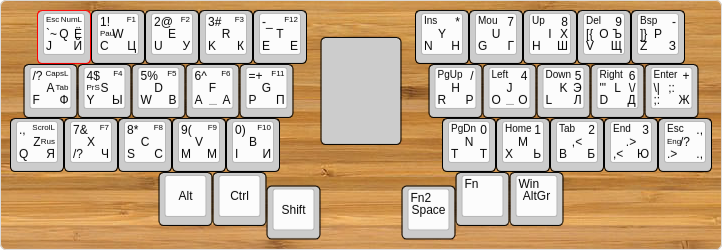
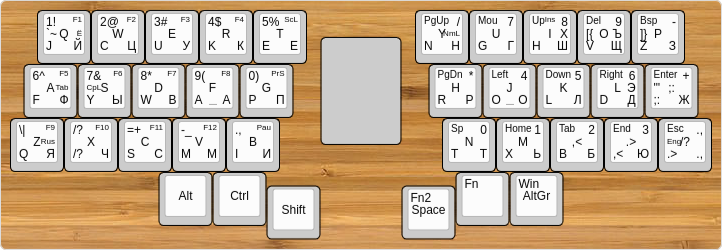
numbers

diff --git a/firmware/jcuken2.h b/firmware/jcuken2.h
@@ -76,8 +76,8 @@ const uint8_t Layers[4][6][9] PROGMEM = {
      {
          0,                                    // HJ
          0,                                    // JK
-         HID_KEYBOARD_SC_APOSTROPHE_AND_QUOTE, // KL
-         HID_KEYBOARD_SC_BACKSLASH_AND_PIPE,   // L;
+         0, // KL
+         HID_KEYBOARD_SC_APOSTROPHE_AND_QUOTE,   // L;
          HID_KEYBOARD_SC_H,                    // H
          HID_KEYBOARD_SC_J,                    // J
          HID_KEYBOARD_SC_K,                    // K
@@ -143,8 +143,8 @@ const uint8_t Layers[4][6][9] PROGMEM = {
      {
          0,                                    // RO
          0,                                    // OL
-         HID_KEYBOARD_SC_APOSTROPHE_AND_QUOTE, // LD
-         HID_KEYBOARD_SC_BACKSLASH_AND_PIPE,   // D;
+         0, // LD
+         HID_KEYBOARD_SC_APOSTROPHE_AND_QUOTE,   // D;
          HID_KEYBOARD_SC_R,                    // R
          HID_KEYBOARD_SC_O,                    // O
          HID_KEYBOARD_SC_L,                    // L
@@ -168,40 +168,40 @@ const uint8_t Layers[4][6][9] PROGMEM = {
          0,                                    // WE
          0,                                    // ER
          0,                                    // RT
-         HID_KEYBOARD_SC_ESCAPE,               // Q
-         HID_KEYBOARD_SC_1_AND_EXCLAMATION,    // W
-         HID_KEYBOARD_SC_2_AND_AT,             // E
-         HID_KEYBOARD_SC_3_AND_HASHMARK,       // R
-         HID_KEYBOARD_SC_MINUS_AND_UNDERSCORE, // T
+         HID_KEYBOARD_SC_1_AND_EXCLAMATION,               // Q
+         HID_KEYBOARD_SC_2_AND_AT,    // W
+         HID_KEYBOARD_SC_3_AND_HASHMARK,             // E
+         HID_KEYBOARD_SC_4_AND_DOLLAR,       // R
+         HID_KEYBOARD_SC_5_AND_PERCENTAGE, // T
      },
      {
          0,                                       // AS
          0,                                       // SD
          0,                                       // DF
          0,                                       // FG
-         HID_KEYBOARD_SC_SLASH_AND_QUESTION_MARK, // A
-         HID_KEYBOARD_SC_4_AND_DOLLAR,            // S
-         HID_KEYBOARD_SC_5_AND_PERCENTAGE,        // D
-         HID_KEYBOARD_SC_6_AND_CARET,             // F
-         HID_KEYBOARD_SC_EQUAL_AND_PLUS,          // G
+         HID_KEYBOARD_SC_6_AND_CARET, // A
+         HID_KEYBOARD_SC_7_AND_AND_AMPERSAND,            // S
+         HID_KEYBOARD_SC_8_AND_ASTERISK,        // D
+         HID_KEYBOARD_SC_9_AND_OPENING_PARENTHESIS,             // F
+         HID_KEYBOARD_SC_0_AND_CLOSING_PARENTHESIS,          // G
      },
      {
          0,                                         // ZX
          0,                                         // XC
          0,                                         // CV
          0,                                         // VB
-         HID_KEYBOARD_SC_DOT_AND_GREATER_THAN_SIGN, // Z
-         HID_KEYBOARD_SC_7_AND_AND_AMPERSAND,       // X
-         HID_KEYBOARD_SC_8_AND_ASTERISK,            // C
-         HID_KEYBOARD_SC_9_AND_OPENING_PARENTHESIS, // V
-         HID_KEYBOARD_SC_0_AND_CLOSING_PARENTHESIS, // B
+         HID_KEYBOARD_SC_BACKSLASH_AND_PIPE, // Z
+         HID_KEYBOARD_SC_SLASH_AND_QUESTION_MARK,       // X
+         HID_KEYBOARD_SC_EQUAL_AND_PLUS,            // C
+         HID_KEYBOARD_SC_MINUS_AND_UNDERSCORE, // V
+         HID_KEYBOARD_SC_DOT_AND_GREATER_THAN_SIGN, // B
      },
      {
          0,                         // YU
          0,                         // UI
-         0,                         // IO
+         HID_KEYBOARD_SC_INSERT,                         // IO
          0,                         // OP
-         HID_KEYBOARD_SC_INSERT,    // Y
+         HID_KEYBOARD_SC_PAGE_UP,    // Y
          HID_KEYBOARD_LAYER_MOU,    // U
          HID_KEYBOARD_SC_UP_ARROW,  // I
          HID_KEYBOARD_SC_DELETE,    // O
@@ -212,7 +212,7 @@ const uint8_t Layers[4][6][9] PROGMEM = {
          0,                           // JK
          0,                           // KL
          0,                           // L;
-         HID_KEYBOARD_SC_PAGE_UP,     // H
+         HID_KEYBOARD_SC_PAGE_DOWN,     // H
          HID_KEYBOARD_SC_LEFT_ARROW,  // J
          HID_KEYBOARD_SC_DOWN_ARROW,  // K
          HID_KEYBOARD_SC_RIGHT_ARROW, // L
@@ -223,7 +223,7 @@ const uint8_t Layers[4][6][9] PROGMEM = {
          0,                         // M,
          0,                         // ,.
          0,                         // ./
-         HID_KEYBOARD_SC_PAGE_DOWN, // N
+         HID_KEYBOARD_SC_SPACE, // N
          HID_KEYBOARD_SC_HOME,      // M
          HID_KEYBOARD_SC_TAB,       // ,<
          HID_KEYBOARD_SC_END,       // .>
@@ -231,44 +231,44 @@ const uint8_t Layers[4][6][9] PROGMEM = {
      }},
     {// Function and Number block
      {
-         HID_KEYBOARD_SC_PAUSE,    // QW
+         0,    // QW
          0,                        // WE
          0,                        // ER
          0,                        // RT
-         HID_KEYBOARD_SC_NUM_LOCK, // Q
-         HID_KEYBOARD_SC_F1,       // W
-         HID_KEYBOARD_SC_F2,       // E
-         HID_KEYBOARD_SC_F3,       // R
-         HID_KEYBOARD_SC_F12,      // T
+         HID_KEYBOARD_SC_F1, // Q
+         HID_KEYBOARD_SC_F2,       // W
+         HID_KEYBOARD_SC_F3,       // E
+         HID_KEYBOARD_SC_F4,       // R
+         HID_KEYBOARD_SC_PRINT_SCREEN,      // T
      },
      {
-         HID_KEYBOARD_SC_PRINT_SCREEN, // AS
+         HID_KEYBOARD_SC_CAPS_LOCK, // AS
          0,                            // SD
          0,                            // DF
          0,                            // FG
-         HID_KEYBOARD_SC_CAPS_LOCK,    // A
-         HID_KEYBOARD_SC_F4,           // S
-         HID_KEYBOARD_SC_F5,           // D
-         HID_KEYBOARD_SC_F6,           // F
-         HID_KEYBOARD_SC_F11,          // G
+         HID_KEYBOARD_SC_F5,    // A
+         HID_KEYBOARD_SC_F6,           // S
+         HID_KEYBOARD_SC_F7,           // D
+         HID_KEYBOARD_SC_F8,           // F
+         HID_KEYBOARD_SC_SCROLL_LOCK,          // G
      },
      {
          0,                           // ZX
          0,                           // XC
          0,                           // CV
          0,                           // VB
-         HID_KEYBOARD_SC_SCROLL_LOCK, // Z
-         HID_KEYBOARD_SC_F7,          // X
-         HID_KEYBOARD_SC_F8,          // C
-         HID_KEYBOARD_SC_F9,          // V
-         HID_KEYBOARD_SC_F10,         // B
+         HID_KEYBOARD_SC_F9, // Z
+         HID_KEYBOARD_SC_F10,          // X
+         HID_KEYBOARD_SC_F11,          // C
+         HID_KEYBOARD_SC_F12,          // V
+         HID_KEYBOARD_SC_PAUSE,         // B
      },
      {
-         0,                                     // YU
+         HID_KEYBOARD_SC_NUM_LOCK,                                     // YU
          0,                                     // UI
          0,                                     // IO
          0,                                     // OP
-         HID_KEYBOARD_SC_KEYPAD_ASTERISK,       // Y
+         HID_KEYBOARD_SC_KEYPAD_SLASH,       // Y
          HID_KEYBOARD_SC_KEYPAD_7_AND_HOME,     // U
          HID_KEYBOARD_SC_KEYPAD_8_AND_UP_ARROW, // I
          HID_KEYBOARD_SC_KEYPAD_9_AND_PAGE_UP,  // O
@@ -279,7 +279,7 @@ const uint8_t Layers[4][6][9] PROGMEM = {
          0,                                        // JK
          0,                                        // KL
          0,                                        // L;
-         HID_KEYBOARD_SC_KEYPAD_SLASH,             // H
+         HID_KEYBOARD_SC_KEYPAD_ASTERISK,             // H
          HID_KEYBOARD_SC_KEYPAD_4_AND_LEFT_ARROW,  // J
          HID_KEYBOARD_SC_KEYPAD_5,                 // K
          HID_KEYBOARD_SC_KEYPAD_6_AND_RIGHT_ARROW, // L

diff --git a/firmware/cata36.c b/firmware/cata36.c
@@ -54,8 +54,8 @@ uint16_t Chords[7] = {0, 0, 0, 0, 0, 0, 0};
 #define NAV_MODE 0
 #define MOU_MODE 1
 
-#define MACROS_BUFFER_SIZE 100
-#define MACROS_BUFFER_MAX 10
+#define MACROS_BUFFER_SIZE 200
+#define MACROS_BUFFER_MAX 100
 uint8_t Macros_Buffer[MACROS_BUFFER_SIZE];
 uint8_t Macros_Index = 0;
 
@@ -403,10 +403,11 @@ bool CALLBACK_HID_Device_CreateHIDReport(
                         LED_Off();
                       }
                     } else if (keyCode == HID_KEYBOARD_LAYER_MOU) {
+                      // TODO: mouse
                     } else if (!v &&
                                keyCode >= HID_KEYBOARD_SC_1_AND_EXCLAMATION &&
                                keyCode <=
-                                   HID_KEYBOARD_SC_9_AND_OPENING_PARENTHESIS &&
+                                   HID_KEYBOARD_SC_0_AND_CLOSING_PARENTHESIS &&
                                (chords[4] || chords[5] ||
                                 chords[6])) { // Multiplier
                       multiplier +=

diff --git a/README.md b/README.md
@@ -12,7 +12,7 @@
 
 Клавиатура аккордовая, поэтому последовательность нажатия нескольких кнопок не важна, главное, какое будет сочетание кнопок при отпускании первой. Приоритет имеют кнопки переключения слоёв и двойные соседние кнопки на одном ряду, если у них установлен аккорд, то сработает он, иначе сработает нажатие нескольких кнопок в определённом порядке, не в порядке их нажатия, а по схеме Согласная-Гласная-Пробел, если согласных или гласных несколько, то они идут в порядке слева-направо-сверху-вниз. При нажатии нескольких цифр, они будут напечатаны в порядке возрастания.
 
-Цифры с кнопками навигации и правки работают как умножитель нажатия кнопки, повторяя нажатие этой кнопки выбранное количество раз.
+Цифры с кнопками навигации и правки работают как умножитель нажатия кнопки, повторяя нажатие этой кнопки выбранное количество раз, цифры умножителя суммируются, ноль равняется десяти.
 
 Раскладка в [Keyboard Layout Editor](http://www.keyboard-layout-editor.com/#/gists/d8e9c413d44c5048d341a1889e236c99)
 
